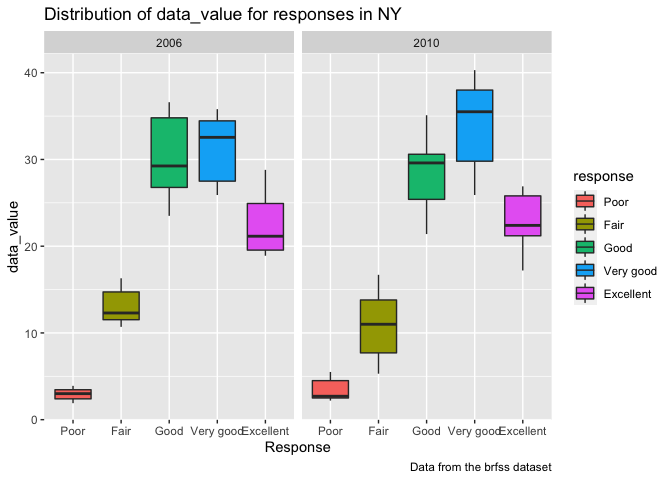
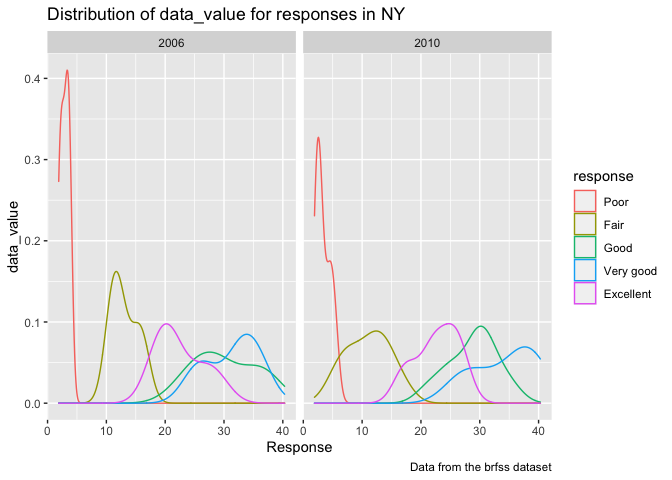
organize, add headers, edit plots

diff --git a/p8105_hw3_sg3891.md b/p8105_hw3_sg3891.md
@@ -7,11 +7,14 @@ Sandya Ganesh
 
 We will explore the instacart data set
 
-#### Short Description of instacart data set, with size and structure of the data, describing some key variables, and giving illstrative examples of observations.
+#### Short description of instacart data set
 
 ``` r
 data("instacart")
 ```
+
+The code below provides the size and structure of the data, describes
+some key variables, and gives illustrative examples of observations.
 
 The total number of observations in the instacart data set is 1384617
 observations with 15 variables. Some key variables in this data set
@@ -22,8 +25,10 @@ orders include products such as Bulgarian Yogurt, Organic 4% Milk Fat
 Whole Milk Cottage Cheese, Organic Celery Hearts. This dataset includes
 orders for 39123 unique products.
 
-There are 1384617 aisles, and the aisles that the most items are ordered
+There are 134 aisles, and the aisles that the most items are ordered
 from are packaged vegetables fruits, fresh fruits, fresh vegetables.
+
+#### Question 1.1
 
 Make a plot that shows the number of items ordered in each aisle,
 limiting this to aisles with more than 10000 items ordered. Arrange
@@ -47,6 +52,8 @@ ggplot(aisle_df, aes(x = reorder(aisle, -n), y = n)) +
 ```
 
 ![](p8105_hw3_sg3891_files/figure-gfm/q1_plot-1.png)<!-- -->
+
+#### Question 1.2
 
 Below is a table showing the three most popular items in each of the
 aisles “baking ingredients”, “dog food care”, and “packaged vegetables
@@ -77,6 +84,8 @@ instacart %>%
 | packaged vegetables fruits | Organic Raspberries                           |        5546 |
 | packaged vegetables fruits | Organic Blueberries                           |        4966 |
 
+#### Question 1.3
+
 Make a table showing the mean hour of the day at which Pink Lady Apples
 and Coffee Ice Cream are ordered on each day of the week; format this
 table for human readers (i.e. produce a 2 x 7 table).
@@ -105,6 +114,8 @@ instacart %>%
 
 The following question uses the BRFSS data.
 
+#### Clean the BRFSS data
+
 The code chunk below cleans the data:
 
 ``` r
@@ -118,6 +129,8 @@ brfss_cleaned = brfss_smart2010 %>%
   filter(response %in% c("Excellent", "Very good", "Good", "Fair", "Poor")) %>%
   separate(locationdesc, into = c('state', 'location'), sep = ' - ')
 ```
+
+#### Question 2.1
 
 In 2002, which states were observed at 7 or more locations?
 
@@ -182,6 +195,8 @@ California, Colorado, Florida, Massachusetts, Maryland, North Carolina,
 Nebraska, New Jersey, New York, Ohio, Pennsylvania, South Carolina,
 Texas, and Washington.
 
+#### Question 2.2
+
 Construct a dataset that is limited to Excellent responses, and
 contains, year, state, and a variable that averages the data\_value
 across locations within a state.
@@ -212,18 +227,17 @@ ggplot(spaghetti_df, aes(x = year, y = average, color = state)) +
 ```
 
 ![](p8105_hw3_sg3891_files/figure-gfm/q2_spaghetti-1.png)<!-- -->
-
-Make a two-panel plot showing, for the years 2006, and 2010,
-distribution of data\_value for responses (“Poor” to “Excellent”) among
-locations in NY State.
+\#\#\#\# Question 2.3 Make a two-panel plot showing, for the years 2006,
+and 2010, distribution of data\_value for responses (“Poor” to
+“Excellent”) among locations in NY State.
 
 ``` r
 two_2006_2010 = brfss_cleaned %>% 
   filter(year == "2006" | year == "2010") %>% 
   filter(state == "NY")
 
-ggplot(two_2006_2010, aes(x = response, y = data_value, fill = response)) + 
-  geom_boxplot() + 
+ggplot(two_2006_2010, aes(x = data_value, color = response)) + 
+  geom_density() + 
   facet_grid(. ~ year) +
   labs(
     title = "Distribution of data_value for responses in NY",
@@ -240,7 +254,9 @@ ggplot(two_2006_2010, aes(x = response, y = data_value, fill = response)) +
 Load, tidy, and otherwise wrangle the data. Your final dataset should
 include all originally observed variables and values; have useful
 variable names; include a weekday vs weekend variable; and encode data
-with reasonable variable classes. .
+with reasonable variable classes.
+
+#### Load and clean the accel data
 
 ``` r
 accel_cleaned = 
@@ -276,6 +292,8 @@ Looking into this data set, we can see that the total number of
 observations in the accel data set is 50400 observations with 6
 variables. The variables in this data set include order\_id,
 product\_id, add\_to\_cart\_order, reordered, user\_id, eval\_set.
+
+#### Question 3.1
 
 Using your tidied dataset, aggregate across minutes to create a total
 activity variable for each day, and create a table showing these totals.
@@ -332,3 +350,9 @@ accel_total_daily
 Looking at the above table, it appears that the subject had very little
 activity on day 24 and 31. Other than that, activity appears to
 fluctuate throughout the 35 days, with no clear trend.
+
+#### Question 3.2
+
+Make a single-panel plot that shows the 24-hour activity time courses
+for each day and use color to indicate day of the week. Describe in
+words any patterns or conclusions you can make based on this graph.
